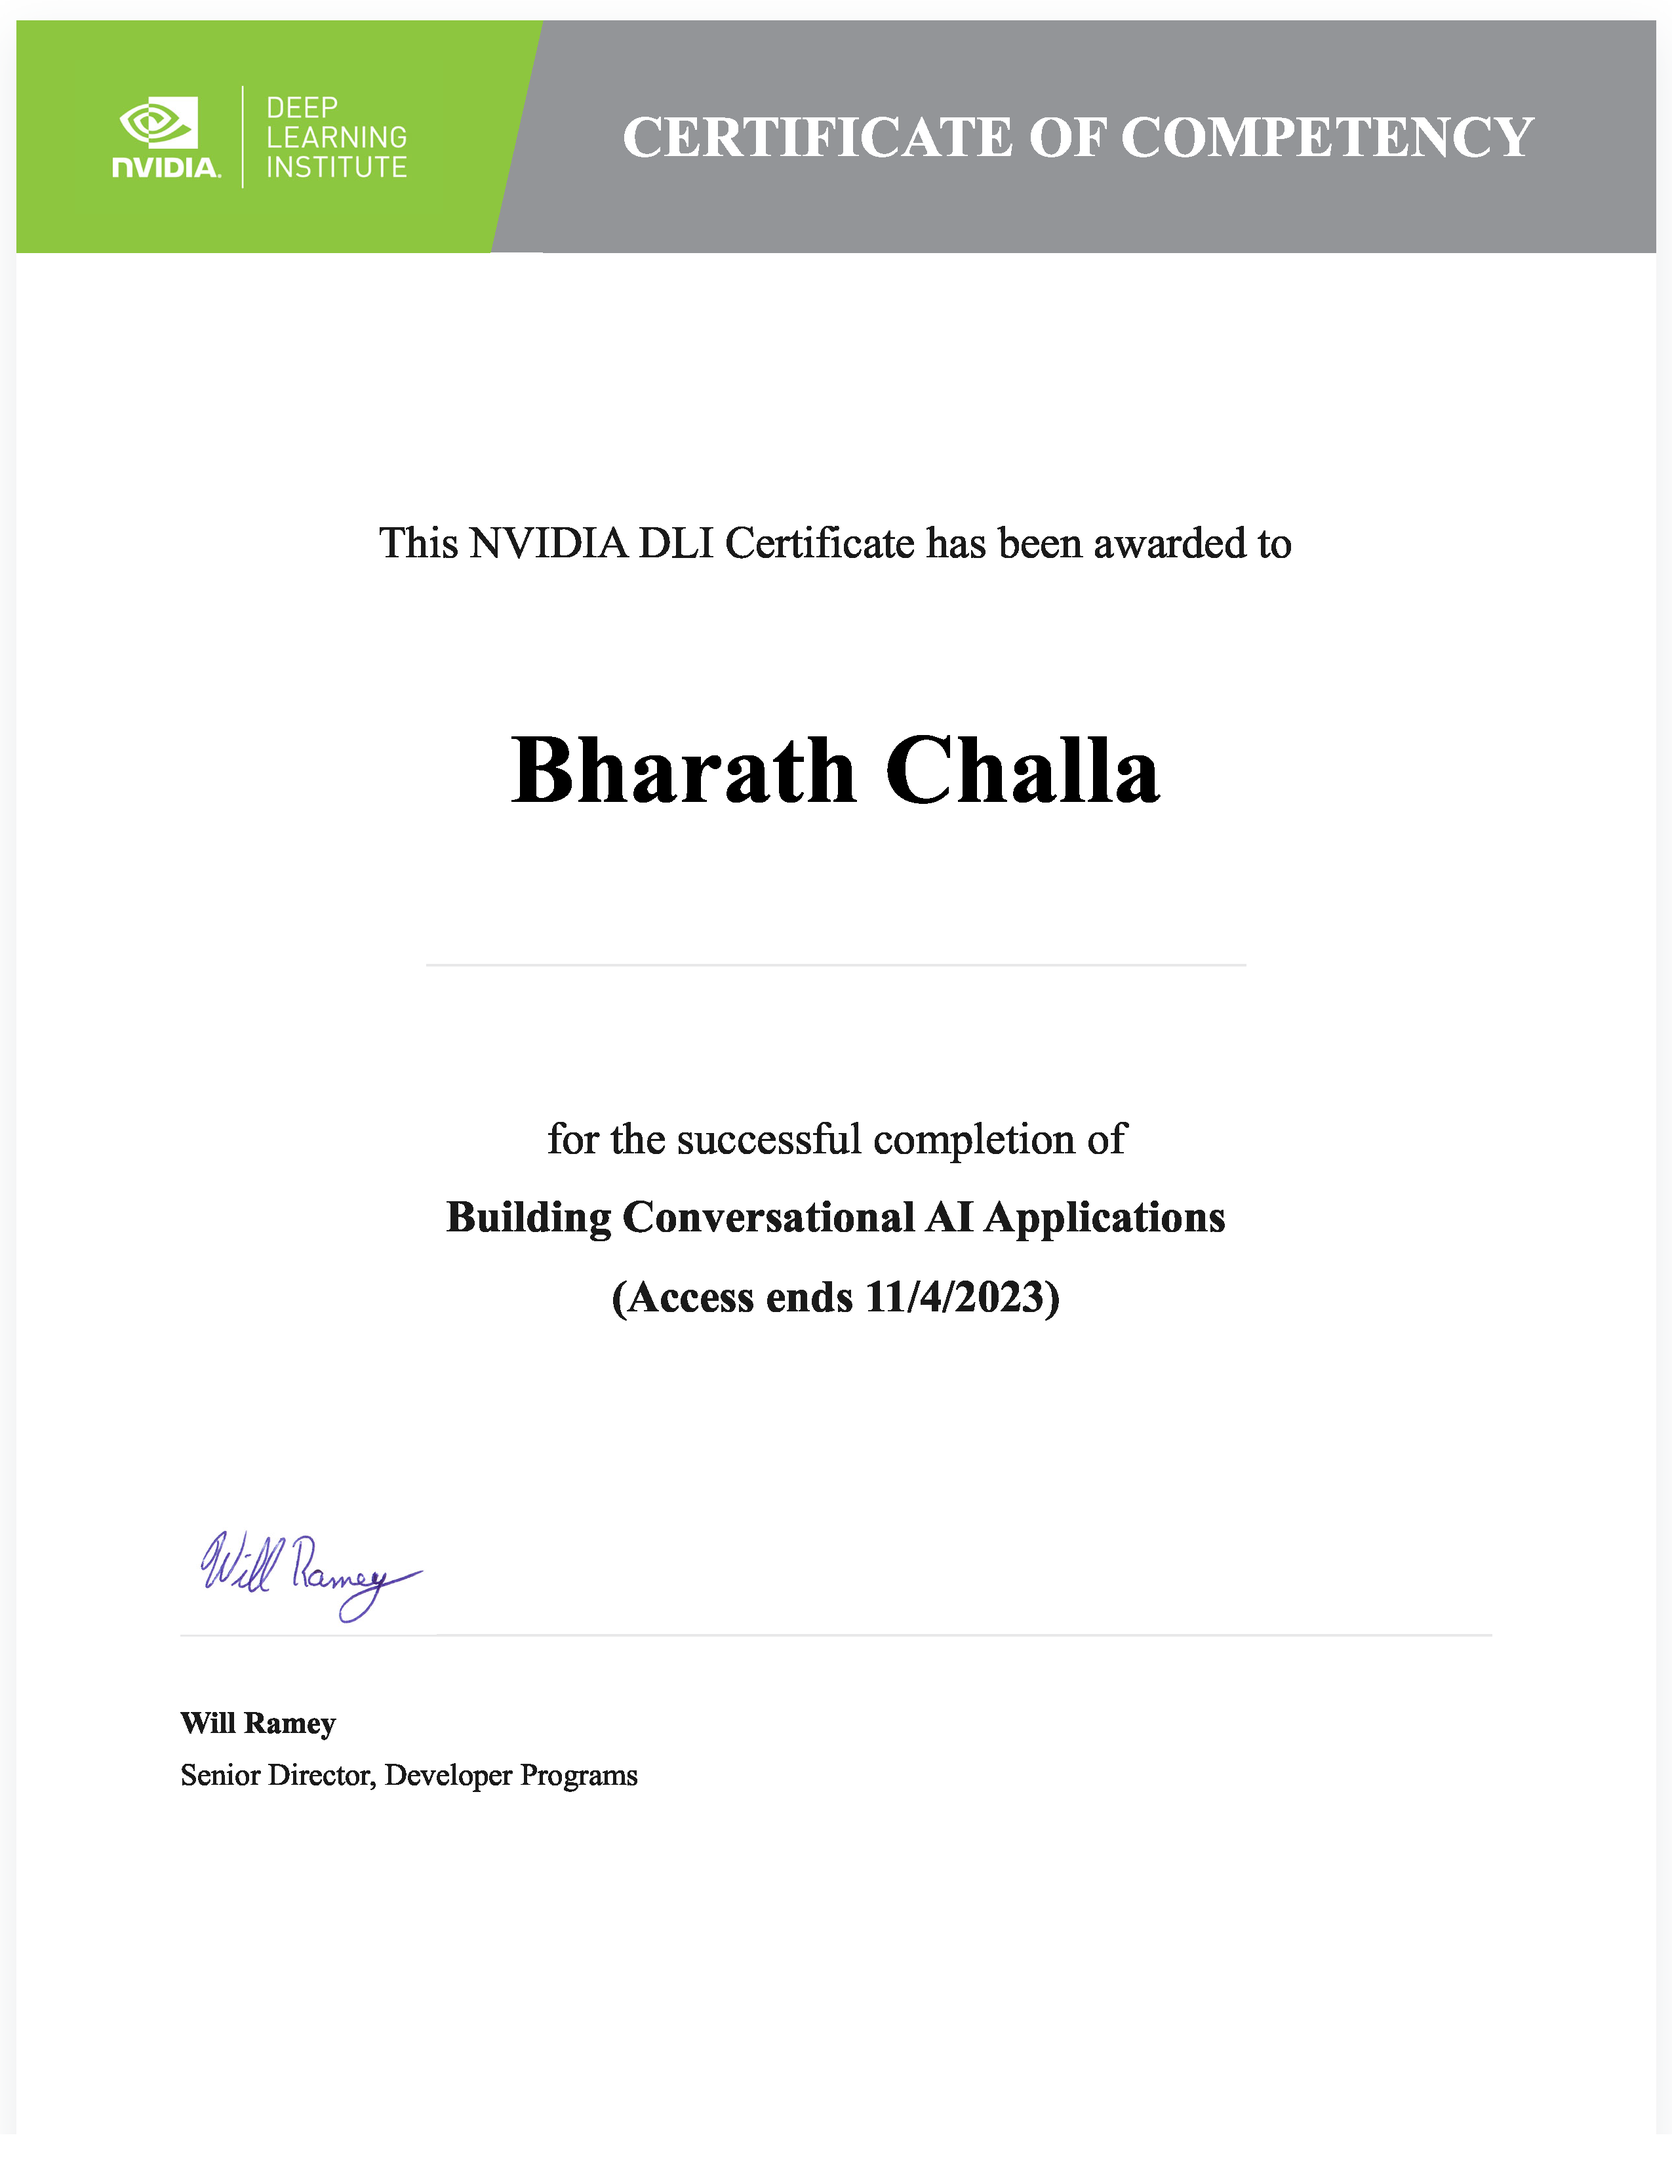
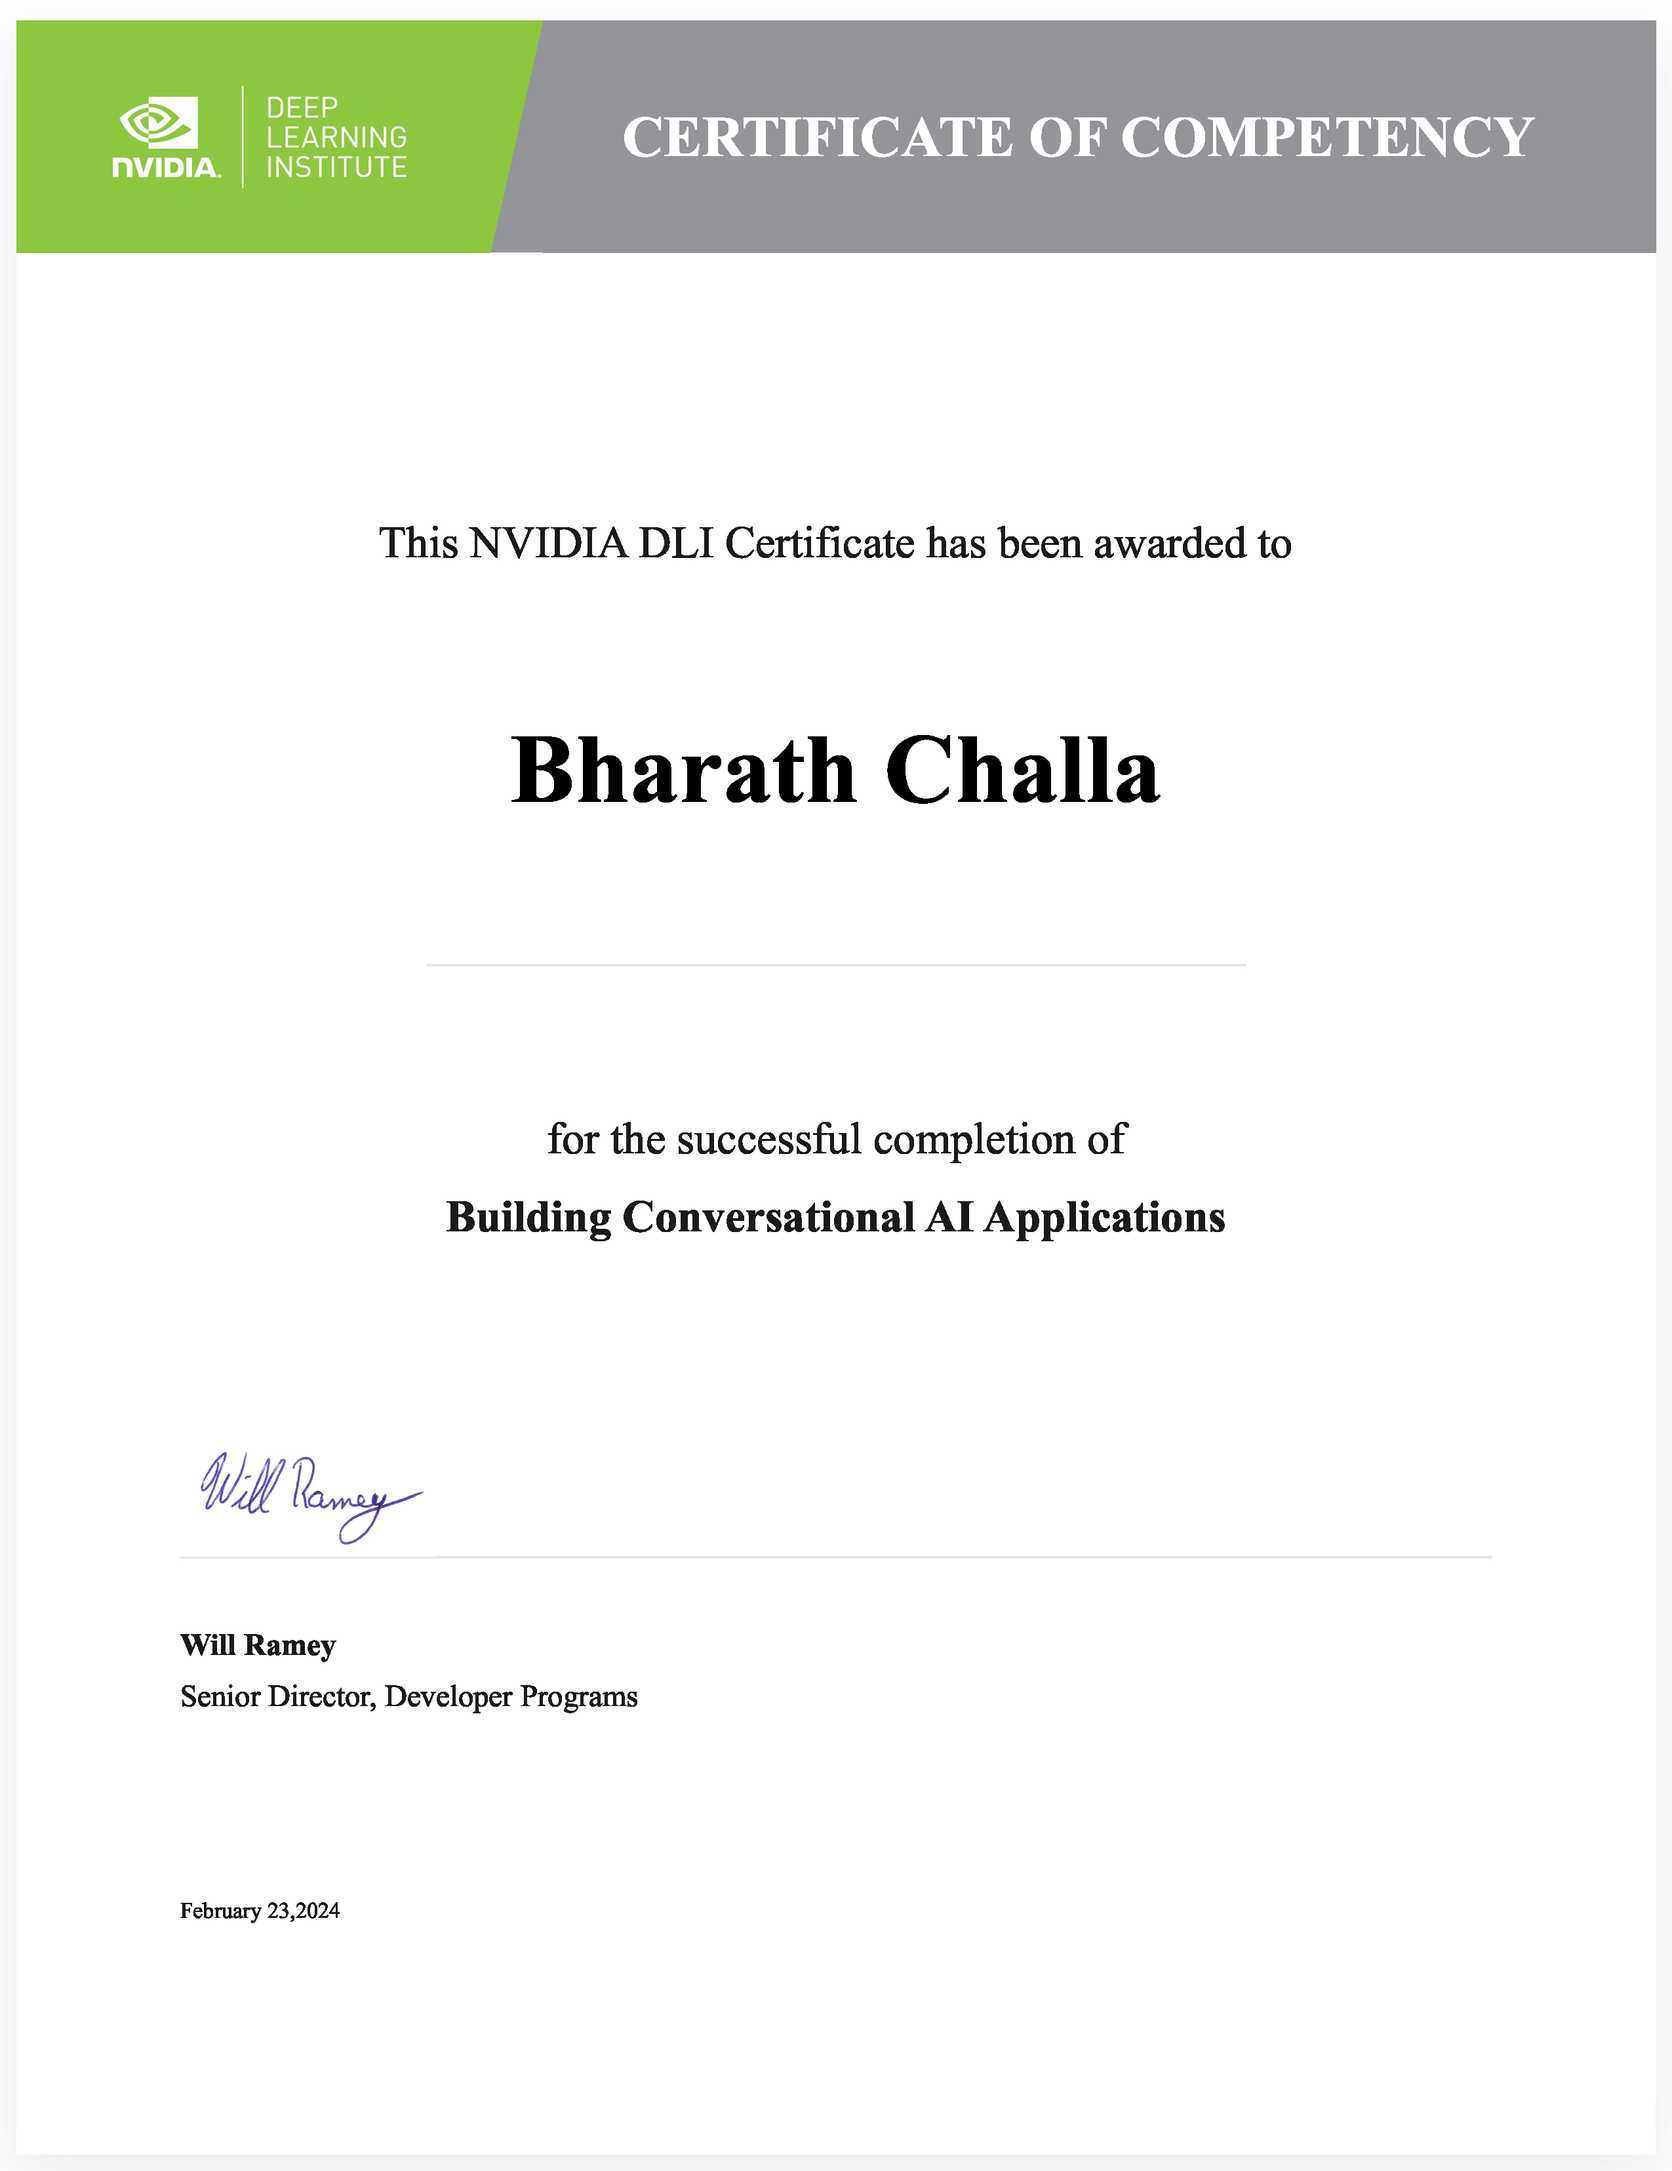
Added the Nvidia DLI - Building Conversational AI Applications (2024)

Changed region(s): [[0.0929, 0.6533, 0.2478, 0.8399], [0.3718, 0.5911, 0.6196, 0.6222], [0.2478, 0.7777, 0.3718, 0.8399]]

diff --git a/index.html b/index.html
@@ -990,10 +990,21 @@
                                 <img src="assets/images/certifications/Nvidia_DLI_ConversationalAI.png"
                                      alt="portfolio image" loading="lazy"/>
                                 <div class="isotope-overlay">
-                                    <a href="https://courses.nvidia.com/certificates/5ca76004f84244908df5f4ed5fc4e1ef/"
+                                    <a href="https://courses.nvidia.com/certificates/25cc4a10a5714614b09588689a4d32b6/"
                                        target="_blank"
                                        rel="noopener noreferrer">
                                         NVIDIA DLI Certificate – Building Conversational AI Applications
+                                    </a>
+                                </div><!-- /.isotope-overlay -->
+                            </div><!-- /.item -->
+                            <div class="item">
+                                <img src="assets/images/certifications/Nvidia_DLI_ConversationalAI_2023.png"
+                                     alt="portfolio image" loading="lazy"/>
+                                <div class="isotope-overlay">
+                                    <a href="https://courses.nvidia.com/certificates/5ca76004f84244908df5f4ed5fc4e1ef/"
+                                       target="_blank"
+                                       rel="noopener noreferrer">
+                                        NVIDIA DLI Certificate – Building Conversational AI Applications (2023)
                                     </a>
                                 </div><!-- /.isotope-overlay -->
                             </div><!-- /.item -->
